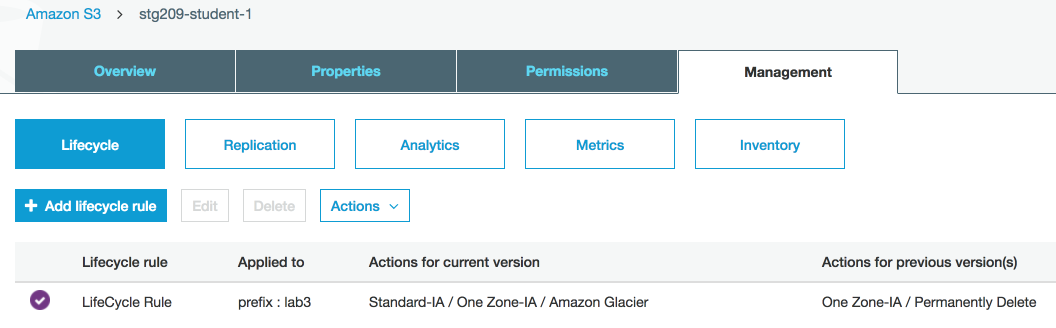
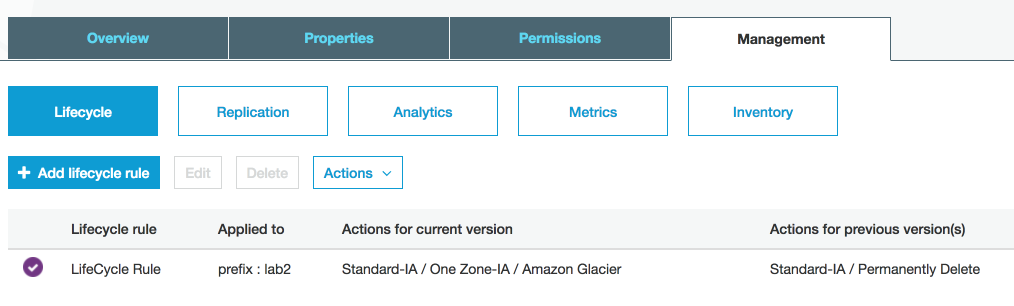
more lab3 to 2 updates

diff --git a/lab2/README.md b/lab2/README.md
@@ -30,7 +30,7 @@ Amazon S3 APIs support setting (or updating) the storage class of objects with t
 * **Object Lifecycle Management**
 
 ### Changing the Storage Class on an Existing Object via the Console
-1. Go to the [S3 console](https://s3.console.aws.amazon.com/s3/home?region=us-east-1), select your S3 bucket, and go to the Lab3 prefix (folder)
+1. Go to the [S3 console](https://s3.console.aws.amazon.com/s3/home?region=us-east-1), select your S3 bucket (e.g **stg209-student-N**), and go to the Lab2 prefix (folder)
 2. Note that the first three objects have **standard** for their object class.
 3. Select the checkbox to the left of the first object _**file001.bin**_ to open up the object details view
 ![Storage Classes](../images/3-objectdetails.png)
@@ -45,7 +45,7 @@ The updated storage class will now be visible on the object overview page in the
 While it's possible to set the storage class via the S3 console, this would be cumbersome to accomplish on many files.
 
 If you were using the AWS CLI, the storage class can easily be set with the `storage-class` parameter like this: (you do not need to do this in your lab)
-    `aws s3 cp file004.bin s3://stg209-student-1/lab3/ --storage-class STANDARD_IA`
+    `aws s3 cp file004.bin s3://stg209-student-1/lab2/ --storage-class STANDARD_IA`
 
 One of the most common ways to move objects between storage classes is via the built-in lifecycle policies which is covered next.
 
@@ -58,13 +58,13 @@ A lifecycle configuration is a set of rules defining actions that Amazon S3 appl
 
 A versioning-enabled bucket can have many versions of the same object, one current version and zero or more non-current (previous) versions. Using a lifecycle policy, you can define actions specific to current and non-current object versions.
 
-1. Go to the [S3 console](https://s3.console.aws.amazon.com/s3/home?region=us-east-1) and select your S3 bucket
-2. Navigate to the **management** tab and select **Add lifecycle rule**
+1. Go to the [S3 console](https://s3.console.aws.amazon.com/s3/home?region=us-east-1) and select your S3 bucket (e.g **stg209-student-N**)
+2. Navigate to the **Management** tab and select **Add lifecycle rule**
 ![S3 Management](../images/3b-management.png)
-3. Give the rule a name and add the prefix **lab3**, click **next**
+3. Give the rule a name and add the prefix **lab2**, click **next**
 ![S3 Management](../images/3b-lifecycle-1.png)
 4. Click the checkmarks for both **Current version** and **Previous version**
-5. Click the **+ Add Transition** link to to add a transition "for current versions of objects"
+5. Click the **+ Add Transition** link to to add a transition "**for current versions of objects**"
 6. Select **Transition to Standard-IA after** It will automatically select "30" for **Days after creation**
 7. Add additional transitions as shown in the graphic
 ![S3 Management](../images/3b-lifecycle-2.png)

diff --git a/lab1/README.md b/lab1/README.md
@@ -12,7 +12,7 @@ Log into the AWS account using the URL and credentials provided to you by the pr
 
 _Note: Each attendee has their own S3 bucket that they will be working with.  Your IAM user only has access to your own bucket._
 
-Navigate to the [S3 Console](https://s3.console.aws.amazon.com/s3/home?region=us-east-1 ) and click on the bucket that has been assigned to you.
+Navigate to the [S3 Console](https://s3.console.aws.amazon.com/s3/home?region=us-east-1 ) and click on the bucket that has been assigned to you. Make sure you use the bucket name without CRR for most of the labs (e.g. **stg209-student-1**)
 
 ## Lab Overview
 
